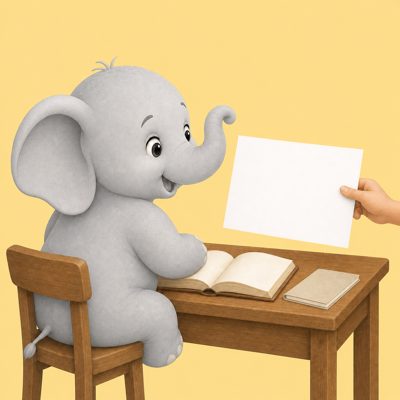
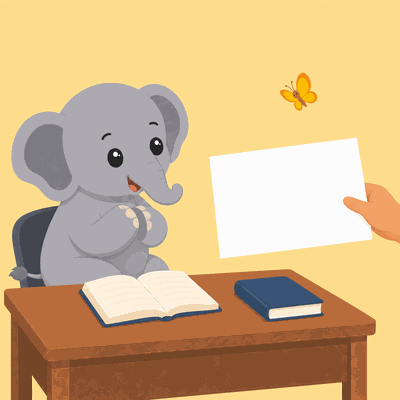
엘리 그림 12장 교체 + 그리드 확대 원형 아이콘 (웹, 앱 259646a7과 한 쌍)
상태 7장·일기 2장·집중 전환 1장·마감 2장을 새 그림으로 교체하고,
'지금 나는' 그리드는 me_*_ico(행동·표정 중심 1.6배 확대 원형)를 쓴다.
⚠ 그리드에서 eleWordImg 틴트 굽기 제거 — 피부색 기능이 폐지됐고 새
그림은 소품이 컬러라 곱하기를 태우면 통째로 탁해진다.

diff --git a/index.html b/index.html
@@ -13521,15 +13521,15 @@
   function openMeSheet(){
     var g=document.getElementById('meGrid');if(!g)return;
     var cur=manualState();
+    /* 그리드 아이콘 = **확대 원형 컷** (요청 2026-07-29, 앱 iconName과 한 쌍):
+       큰 장면 그림에서 행동·표정을 중심으로 1.6배 당겨 동그랗게 잘랐다.
+       작은 칸에서 '무엇을 하는 중인지'가 바로 읽히고 큰 그림과도 구별된다.
+       ⚠ 틴트를 굽지 않는다 — 피부색 기능이 폐지됐고, 새 그림은 소품이
+         컬러라 곱하기를 태우면 통째로 탁해진다. */
     g.innerHTML=AVATAR_STATES.map(function(k){
       return '<button class="me-item'+(k===cur?' on':'')+'" data-me="'+k+'">'
-        +'<img id="mei-'+k+'" src="assets/avatar_'+k+'.png" alt="">'+ME_LABEL[k]+'</button>';
+        +'<img id="mei-'+k+'" src="assets/me_'+k+'_ico.png" alt="">'+ME_LABEL[k]+'</button>';
     }).join('');
-    // 고른 색은 그리드에도 똑같이 (한 화면에 두 색이면 딴 코끼리로 보인다).
-    AVATAR_STATES.forEach(function(k){
-      eleWordImg('avatar_'+k,eleTint(),function(u){
-        var el=document.getElementById('mei-'+k);if(el&&u)el.src=u;});
-    });
     // 열 때는 지금 상태를 그냥 보여 준다 — 손은 **내가 고른 뒤에만** 들어온다.
     paintMeStage(cur||avatarState(),false);
     document.getElementById('meAct').innerHTML='';
